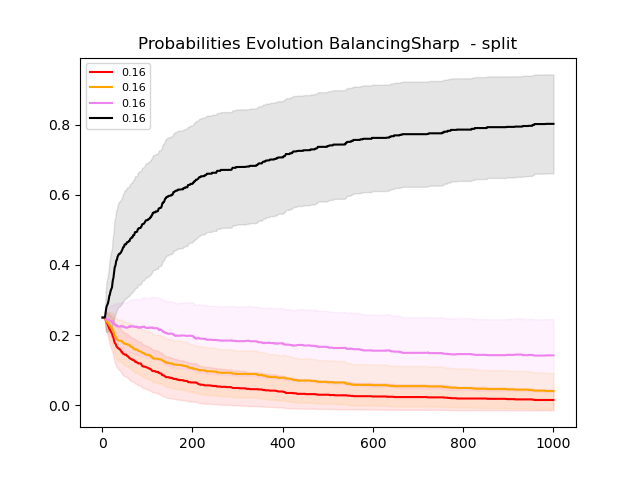
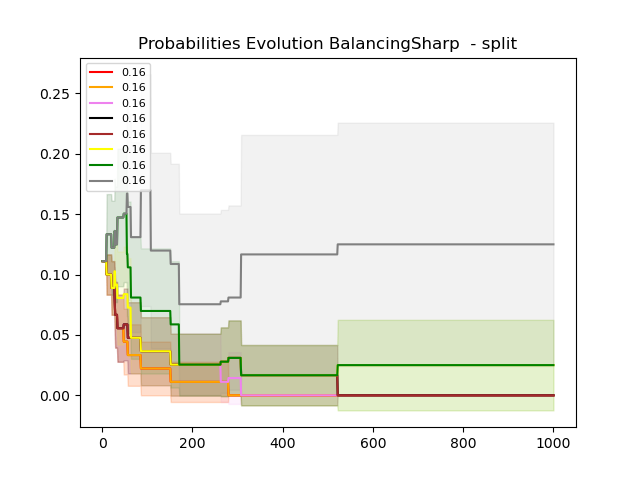
asdflkm

diff --git a/simple_modsel_test.py b/simple_modsel_test.py
@@ -277,7 +277,9 @@ if __name__ == "__main__":
 	#### RUN THE BASELINES
 	baselines_results = []
 
-	for confidence_radius in confidence_radii:
+	reduced_confidence_radii = list(set(confidence_radii))
+
+	for confidence_radius in reduced_confidence_radii:
 			cum_regrets_all = []	
 			#confidence_radius_pulls_all = []
 			for _ in range(num_experiments):
@@ -342,8 +344,6 @@ if __name__ == "__main__":
 					label = str(confidence_radius), color = color )
 				plt.fill_between(np.arange(num_timesteps) + 1, mean_probabilities[:,i] - .5*std_probabilities[:,i],
 						mean_probabilities[:,i] + .5*std_probabilities[:,i], alpha = .1, color = color)
-				#plt.fill_between(np.arange(num_timesteps) + 1, mean_probabilities[:,i],
-				#		mean_probabilities[:,i] , alpha = .1, color = color)
 
 
 			plt.title("Probabilities Evolution {} {}".format(modselalgo, split_tag))
@@ -387,9 +387,6 @@ if __name__ == "__main__":
 
 
 
-
-
-
 			### plot all the model selection together .... Add an extra plot. 
 			### Implement SuperClassic^2 --- original version (with elimination)
 
@@ -422,7 +419,7 @@ if __name__ == "__main__":
 
 
 
-			for confidence_radius, baseline_result_tuple, color in zip(confidence_radii, baselines_results, colors):
+			for confidence_radius, baseline_result_tuple, color in zip(reduced_confidence_radii, baselines_results, colors):
 				mean_cum_regrets, std_cum_regrets = baseline_result_tuple
 				plt.plot(np.arange(num_timesteps) + 1, mean_cum_regrets, label = "radius {}".format(confidence_radius), color = color )
 				plt.fill_between(np.arange(num_timesteps) + 1,mean_cum_regrets - .5*std_cum_regrets,mean_cum_regrets + .5*std_cum_regrets, alpha = .2 , color = color )
@@ -456,7 +453,7 @@ if __name__ == "__main__":
 					plt.plot(np.arange(num_timesteps) + 1, modsel_cum_regrets_all[i], label = modselalgo, color = "blue" )
 					#plt.fill_between(np.arange(num_timesteps) + 1,mean_modsel_cum_regrets -.5*std_modsel_cum_regrets, mean_modsel_cum_regrets +.5*std_modsel_cum_regrets, color = "blue", alpha = .2   )
 
-					for confidence_radius, info_list, color in zip(confidence_radii, per_algorithm_regrets_stats[i], colors):
+					for confidence_radius, info_list, color in zip(reduced_confidence_radii, per_algorithm_regrets_stats[i], colors):
 							cum_regret = np.cumsum(info_list)
 							plt.plot(np.arange(len(cum_regret)) + 1, cum_regret, label = "radius {}".format(confidence_radius), color = color )
 							#plt.fill_between(np.arange(num_timesteps) + 1,mean_cum_regrets - .5*std_cum_regrets,mean_cum_regrets + .5*std_cum_regrets, alpha = .2 , color = color )
